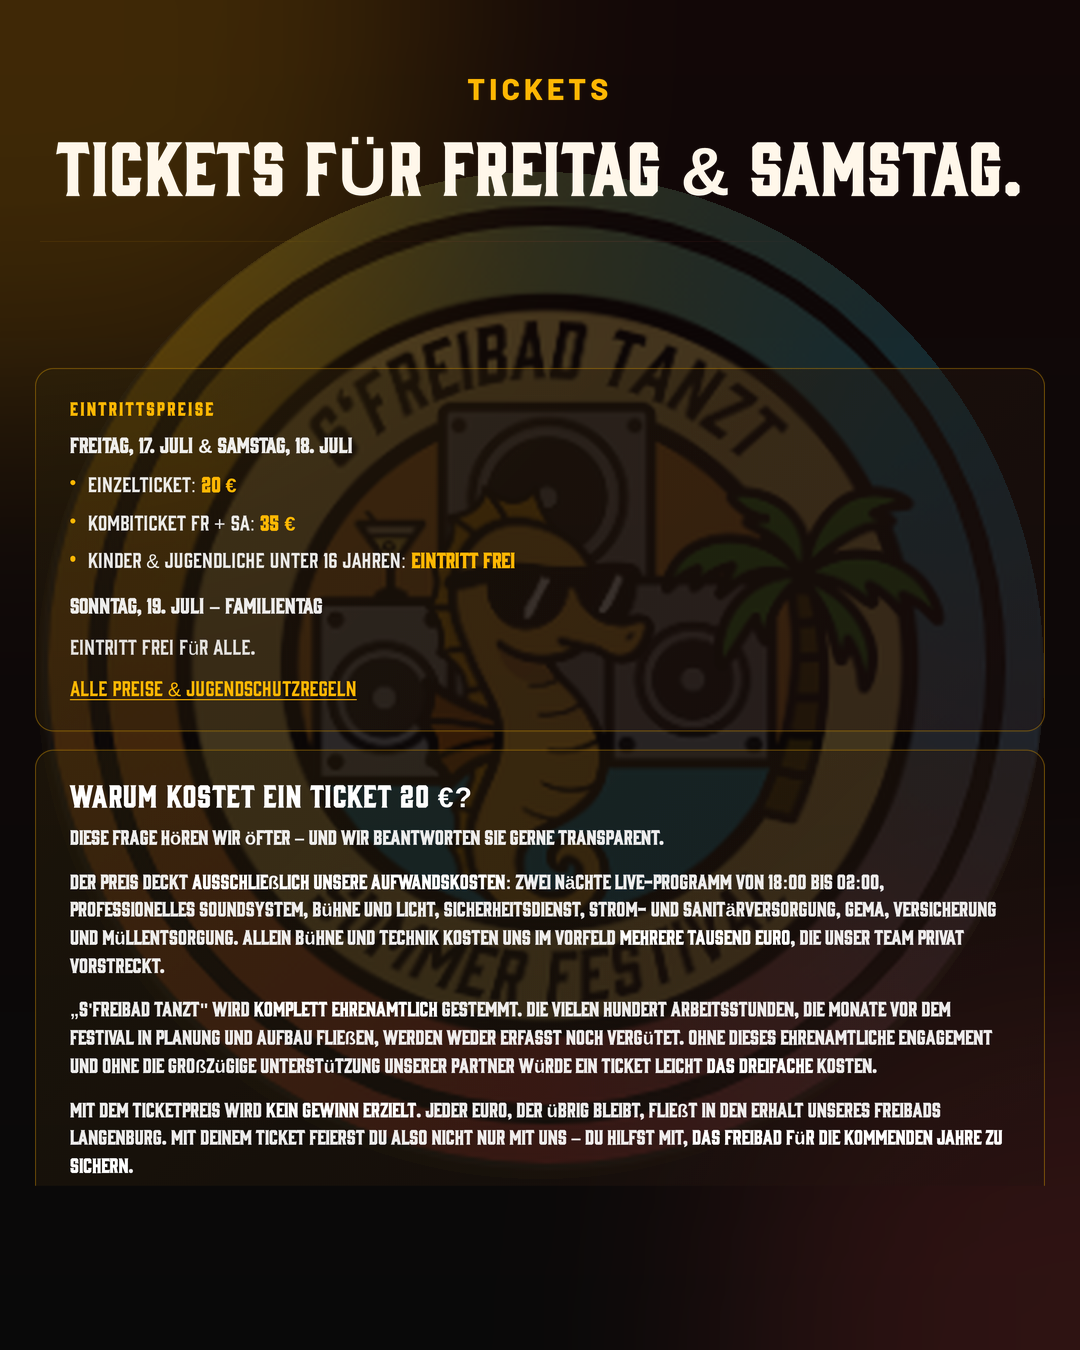
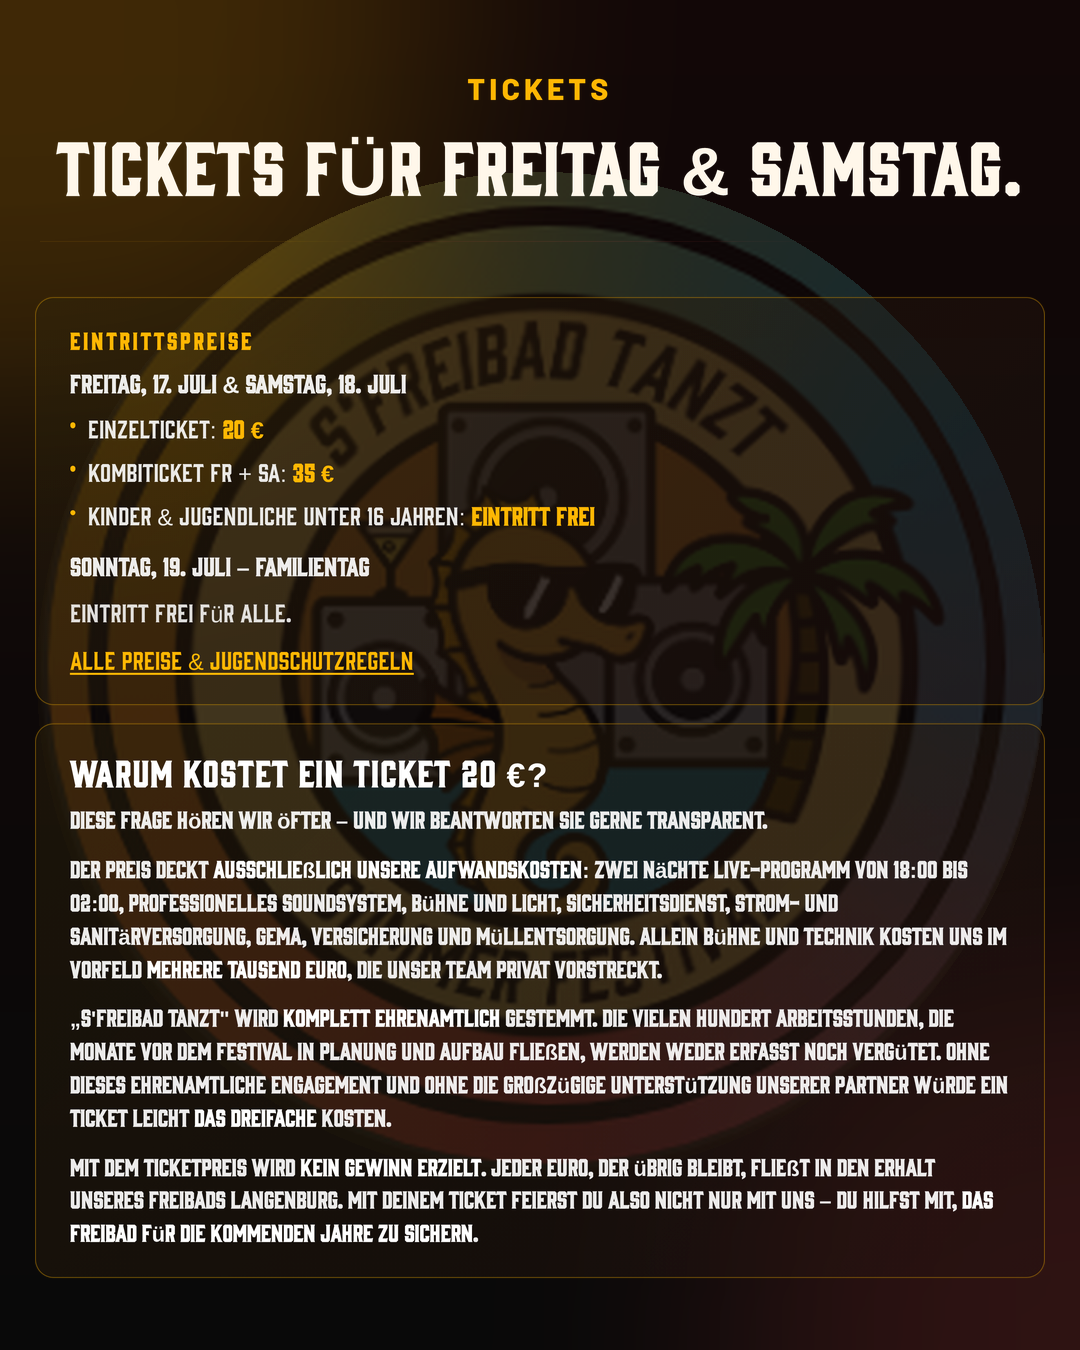
Ticket-Slide 03: Schriftgrößen in den breiten Kacheln weiter vergrößert

Changed region(s): [[0.0306, 0.2178, 0.9472, 0.9333]]

diff --git a/exports/generate_instagram.py b/exports/generate_instagram.py
@@ -363,11 +363,11 @@ RENDER_STYLE = """
     }
 
     .ig-ticket-slide-03 .ticket-info-block h3 {
-      font-size: 1.05rem !important;
+      font-size: 1.35rem !important;
     }
 
     .ig-ticket-slide-03 .ticket-info-block--transparency h3 {
-      font-size: 1.75rem !important;
+      font-size: 2.1rem !important;
       line-height: 1.12 !important;
     }
 
@@ -375,17 +375,17 @@ RENDER_STYLE = """
     .ig-ticket-slide-03 .ticket-info-prices li,
     .ig-ticket-slide-03 .ticket-price-free,
     .ig-ticket-slide-03 .ticket-price-link {
-      font-size: 1.22rem !important;
+      font-size: 1.45rem !important;
       line-height: 1.48 !important;
     }
 
     .ig-ticket-slide-03 .ticket-transparency-lead {
-      font-size: 1.28rem !important;
+      font-size: 1.55rem !important;
       line-height: 1.45 !important;
     }
 
     .ig-ticket-slide-03 .ticket-info-block--transparency p {
-      font-size: 1.14rem !important;
+      font-size: 1.35rem !important;
       line-height: 1.52 !important;
     }
 
